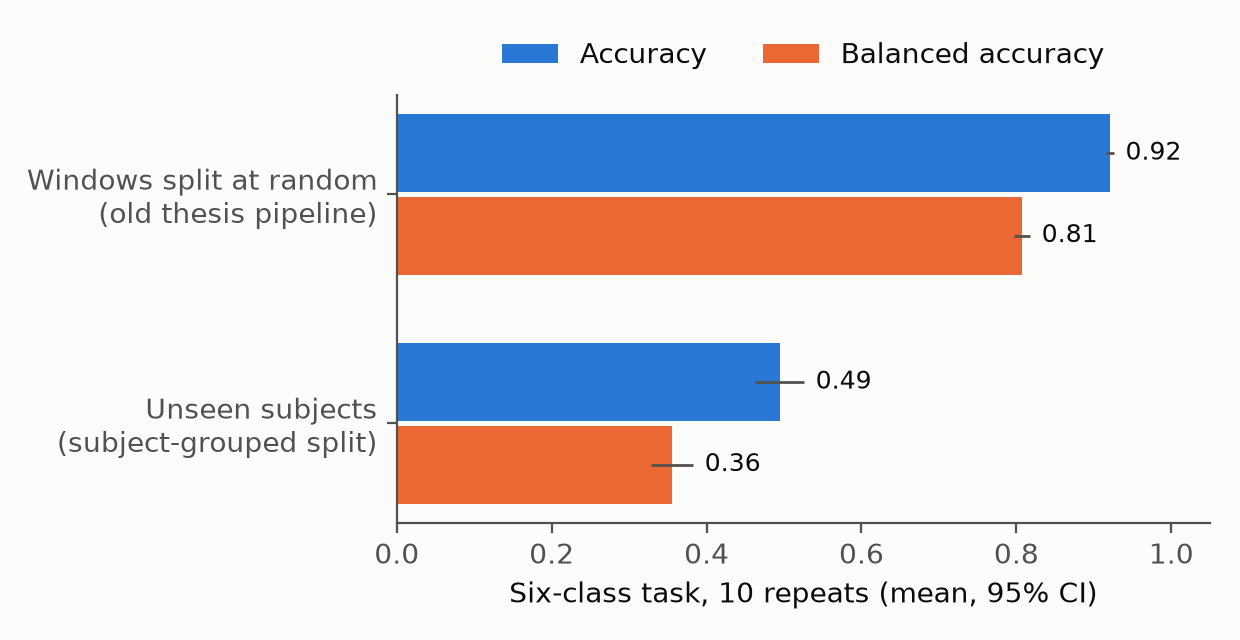
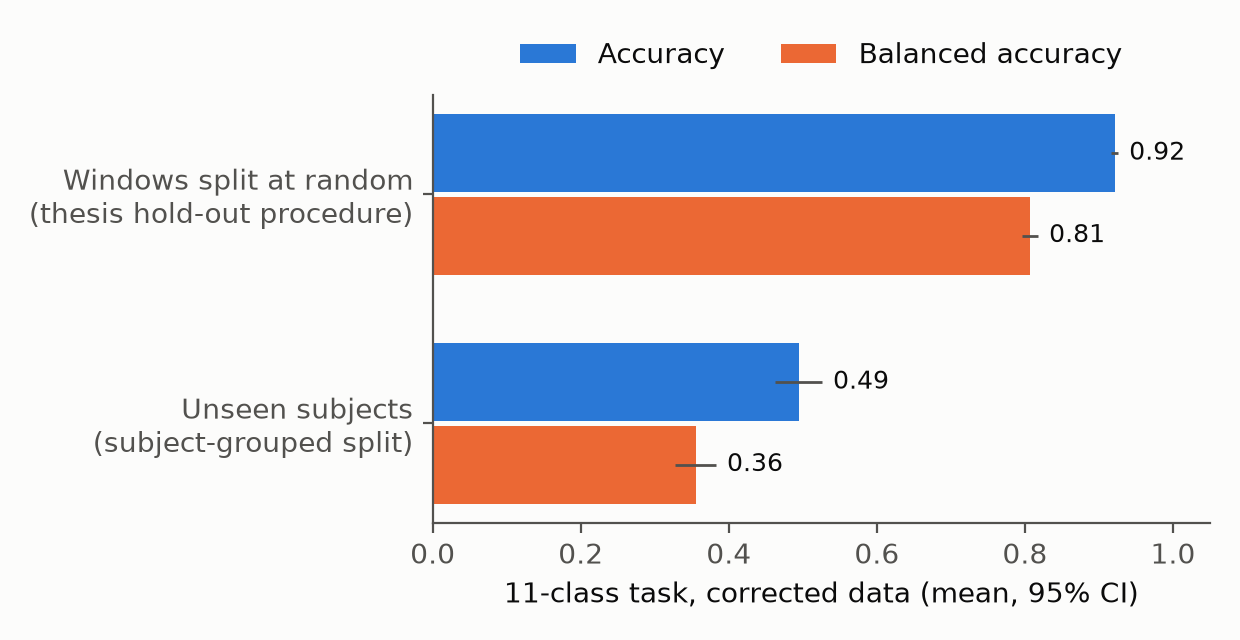
Correct how the thesis results are described
The thesis reported four figures, not one: 94.53% (5-fold CV, window
level), 93.8% (hold-out: the text says 15% of subjects, notebook 12 split
windows at random), 72.0% (genuine leave-one-subject-out, but on the
defective labels and features) and 28-31% cross-dataset. The README and
legacy note now say this. The corrected "legacy" task has 11 classes, not
six, so the 51% LOSO and the 92% vs 49% split comparison are labelled as
11-class figures and not compared like-for-like with the thesis's 72%.

Claude-Session: https://claude.ai/code/session_01JcGPWG6MtNbHtCjnTjQdNE

diff --git a/scripts/make_figures.py b/scripts/make_figures.py
@@ -57,7 +57,7 @@ def dot_rows(ax, frame: pd.DataFrame, columns: dict[str, str], xlabel: str) -> N
 
 def leakage() -> None:
     t = pd.read_csv(TABLES / "leakage_check.csv")
-    names = ["Windows split at random\n(old thesis pipeline)", "Unseen subjects\n(subject-grouped split)"]
+    names = ["Windows split at random\n(thesis hold-out procedure)", "Unseen subjects\n(subject-grouped split)"]
     fig, ax = plt.subplots(figsize=(6.2, 3.2))
     for i, (metric, label) in enumerate((("accuracy", "Accuracy"), ("balanced_accuracy", "Balanced accuracy"))):
         color, _ = SERIES[i]
@@ -70,7 +70,7 @@ def leakage() -> None:
     ax.set_yticks(range(2), names)
     ax.invert_yaxis()
     ax.set_xlim(0, 1.05)
-    ax.set_xlabel("Six-class task, 10 repeats (mean, 95% CI)")
+    ax.set_xlabel("11-class task, corrected data (mean, 95% CI)")
     ax.legend(loc="lower center", bbox_to_anchor=(0.5, 1.0), ncol=2)
     save(fig, "fig1_window_vs_subject_split")
 

diff --git a/README.md b/README.md
@@ -2,7 +2,13 @@
 
 Stress detection from the Empatica E4 wristband (heart rate and HRV from wrist PPG, electrodermal activity, skin temperature), evaluated across five public datasets. The pipeline, results and literature review here form the working copy for a journal revision (IEEE JBHI).
 
-> **The numbers in earlier versions of this README were wrong.** The old headline of "94.53% accuracy, 96 subjects" came from a window-level train/test split that put the same people on both sides. On unseen subjects the same six-class model scores 49% accuracy (balanced accuracy 0.36). The old notebooks, models and figures are kept in [`legacy/`](legacy/) for reference only. Do not cite them.
+> **The numbers in earlier versions of this README were wrong.** The thesis (2026) reported a six-class model in four ways. The two headline figures were inflated:
+> - **94.53% (5-fold cross-validation):** windows from the same people were in both training and test.
+> - **93.8% (independent hold-out):** the thesis text says 15% of subjects were held out, but the notebook split windows at random.
+>
+> The thesis's own leave-one-subject-out figure, 72.0%, was a genuine subject-level test. It still ran on data with misaligned WESAD labels, whole-session PhysioNet "stress" labels and unfiltered BVP peaks. There is no like-for-like corrected six-class figure. The corrected pipeline splits the thesis classes further: emotion into anger, fear, happiness and sadness, and rest and meditation into their own classes. On that 11-class version, leave-one-subject-out gives 51% accuracy (balanced accuracy 0.35).
+>
+> The old notebooks, models and figures are kept in [`legacy/`](legacy/) for reference only. Do not cite them.
 
 ## What the pipeline does
 
@@ -32,9 +38,11 @@ All numbers come from the tables in [`outputs/tables/jbhi_v2/`](outputs/tables/j
 
 ### 1. Splitting by window instead of by subject inflates accuracy
 
-| Split (six-class task, 10 repeats) | Accuracy | Balanced accuracy |
+On the corrected data (11 classes), the thesis's hold-out procedure (a random 15% of windows) versus a true subject hold-out:
+
+| Split (11-class task, 10 repeats) | Accuracy | Balanced accuracy |
 |---|---|---|
-| Random 15% of windows (old thesis pipeline) | 0.921 | 0.807 |
+| Random 15% of windows (as in the thesis notebook) | 0.921 | 0.807 |
 | 15% of subjects held out | **0.494** | **0.355** |
 
 ![Window vs subject split](outputs/figures/jbhi_v2/fig1_window_vs_subject_split.png)

diff --git a/legacy/README.md b/legacy/README.md
@@ -8,6 +8,11 @@ This folder keeps the notebooks, trained models, figures, tables and API from th
 - unfiltered BVP peak detection;
 - whole-session "stress" labels in PhysioNet.
 
-Its 94.53% accuracy falls to 49% (balanced accuracy 0.36) when subjects are held out. See `outputs/tables/jbhi_v2/leakage_check.csv` and the main README.
+The thesis figures were affected in different ways:
+- **94.53% (5-fold cross-validation):** window-level; the same subjects were in training and test.
+- **93.8% (hold-out):** also window-level. The thesis text describes a subject hold-out, but notebook 12 used `train_test_split` on windows.
+- **72.0% (leave-one-subject-out):** genuinely subject-level, but computed on the defective labels and features.
+
+There is no like-for-like corrected six-class figure. The corrected labels split the classes further (emotion into four classes; rest and meditation separate). On that 11-class version, leave-one-subject-out gives 51% accuracy (balanced accuracy 0.35; `outputs/tables/jbhi_v2/loso_summary.csv`). A random window split on the same corrected data still gives 92% (`leakage_check.csv`).
 
 The notebooks and `api.py` expect the old folder layout and will not run from here without path changes.
